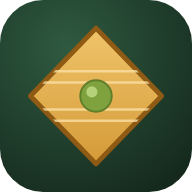
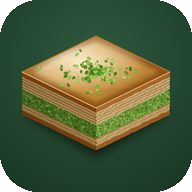
0.29.0: Şubede teslim bekleyen liste ve teslim alan, stoktakiler önce sipariş, Oda uygulamasında sevkiyat, yeni kare baklava simgesi
Claude-Session: https://claude.ai/code/session_01NAW6WPaR1nApTT9Sg4hdiU

diff --git a/index.html b/index.html
@@ -924,6 +924,23 @@
   .kip-uyari-kart b:first-of-type { font-size: 18px; }
   .kip-uyari-kart span { color: var(--soluk); line-height: 1.5; }
   .kip-uyari-kart .btn { width: 100%; min-height: 50px; }
+
+  .kip-bilgi { display: none; }
+  .mobil-kip .kip-bilgi { display: block; background: #EEF6EA; color: #1E5A22; border: 1px solid #BFD8B5; border-radius: 10px; padding: 8px 12px; margin-bottom: 10px; font-size: 14px; line-height: 1.4; }
+  .mobil-kip .oda-tablo td:nth-child(2) span[style] { display: none; }
+  .teslim-kart { border: 2px solid #C9B6F0; background: #F7F3FE; border-radius: 14px; padding: 12px; margin: 12px 0; display: flex; flex-direction: column; gap: 8px; }
+  .teslim-kart.tamam { border-color: #9BCB8F; background: #F0F8EC; }
+  .teslim-ust { display: flex; justify-content: space-between; align-items: center; gap: 10px; }
+  .teslim-ust > span { display: flex; flex-direction: column; min-width: 0; } .teslim-ust small { color: var(--soluk); }
+  .teslim-sayi { font-size: 24px; font-variant-numeric: tabular-nums; }
+  .teslim-liste { list-style: none; margin: 0; padding: 0; display: flex; flex-direction: column; gap: 4px; }
+  .teslim-liste li { display: grid; grid-template-columns: 22px minmax(0, 1fr) auto; gap: 8px; align-items: center; background: #fff; border: 1px solid var(--cizgi); border-radius: 8px; padding: 6px 10px; font-size: 14.5px; }
+  .teslim-liste li.tamam { color: #23602A; background: #F3FAF0; } .teslim-liste li.tamam span:first-child { font-weight: 800; }
+  .teslim-kabul { display: flex; gap: 8px; align-items: flex-end; flex-wrap: wrap; }
+  .teslim-kabul label { flex: 1 1 180px; } .teslim-kabul .btn { flex: 1 1 160px; min-height: 48px; font-size: 16px; }
+  .teslim-not { color: var(--soluk); font-size: 13.5px; }
+  .sip-bolum { font-size: 12px; font-weight: 800; letter-spacing: .5px; text-transform: uppercase; color: var(--soluk); margin: 10px 0 4px; }
+  .stok-var { color: #23602A; font-weight: 700; }
 </style>
 </head>
 <body>
@@ -1187,6 +1204,7 @@
     <!-- BAKLAVA ODASI -->
     <section data-sayfa="oda" class="gizli">
       <h2>Baklava Odası · Tepsi Etiketleri</h2>
+      <div class="kip-bilgi">Odaya gelen tepsilerin adedini yazıp <b>Kaydet</b>'e basın. Alınan ürün aynı anda <b>stoğa girer</b>; etiketleri bilgisayardan basılır.</div>
       <div class="kart">
         <div class="satir" style="justify-content:space-between;margin-bottom:12px">
           <label style="flex-direction:row;align-items:center;gap:8px">Üretim günü <input type="date" id="o-gun"></label>
@@ -1429,6 +1447,7 @@
           <button class="btn btn-kamera" type="button" id="sb2-kamera"><span data-ikon="kamera"></span>Kamera</button>
         </form>
         <div id="sb2-durum" class="okut-durum bekle">Gelen tepsileri “Teslim al” ile okutun.</div>
+        <div id="sb2-bekleyen"></div>
         <div class="buyuk-sayac"><b id="sb2-sayac">0</b><span>tepsi bugün teslim alındı</span></div>
         <ul class="okut-gecmis" id="sb2-gecmis" aria-label="Son okutmalar"></ul>
       </div>
@@ -1439,7 +1458,7 @@
         </div>
         <div id="sb2-siparisler"></div>
       </div>
-      <div class="kart">
+      <div class="kart gizli">
         <h3 style="margin:0 0 10px">Gelen sevkiyatlar · teslim kontrolü</h3>
         <div id="sb2-gelen"></div>
       </div>
@@ -3768,6 +3787,8 @@ function izinliEkranlar(p = profil) {
   if (l.includes('muhendis') && !l.includes('analiz')) l.push('analiz');
   // Oda stoğu, odayı ya da sevkiyatı gören herkese açık (siparişler buradan izlenir)
   if ((l.includes('oda') || l.includes('sevkiyat')) && !l.includes('odastok')) l.push('odastok');
+  // Odada tepsi kabul eden kişi sevkiyatı da yapar
+  if (MOBIL_KIP === 'oda' && p === profil && (l.includes('oda') || l.includes('sevkiyat'))) l.push('oda', 'sevkiyat');
   if (MOBIL_KIP && p === profil) l = l.filter(x => KIP_EKRANLAR[MOBIL_KIP].includes(x));
   return EKRANLAR.map(e => e.id).filter(e => l.includes(e)
     && (!SADECE_MUHENDIS.includes(e) || ['muhendis', 'yonetici'].includes(p.rol))
@@ -4651,6 +4672,7 @@ async function subeListesi() {
   const l = icerde || [];
   $('sb2-adet').textContent = `(${l.length})`;
   const gl = gelen || [];
+  sb2BekleyenCiz(gl);
   $('sb2-gelen').innerHTML = gl.length ? `<table><tr><th>Sevkiyat</th><th>Araç / şoför</th><th>Çıkış</th><th style="width:220px">Teslim alınan</th><th></th></tr>
     ${gl.map(x => { const tam = x.teslim_alinan >= x.tepsi_adet && x.tepsi_adet > 0; const yuzde = x.tepsi_adet ? Math.round(x.teslim_alinan * 100 / x.tepsi_adet) : 0; return `<tr>
       <td class="mono">${esc(x.kod)}</td><td><b>${esc(x.plaka)}</b><br><span style="color:var(--soluk)">${esc(x.sofor_ad)}</span></td>
@@ -4680,6 +4702,37 @@ document.querySelector('section[data-sayfa="sube"]').addEventListener('click', e
   if (t.dataset.gelenKapat) return teslimKapat(Number(t.dataset.gelenKapat), Number(t.dataset.eksik), t.dataset.kod);
   if (!t.closest('input, button, select, a, textarea')) $('sb2-okut').focus();
 });
+// Şubeye gelen (yoldaki) sevkiyatlar: ürün ürün liste, okutulanlar işaretlenir, eksik yoksa kabul eden kişi yazılıp kabul edilir
+async function sb2BekleyenCiz(gl) {
+  const kap = $('sb2-bekleyen');
+  if (!gl.length) { kap.innerHTML = ''; return; }
+  const { data } = await sb.from('v_sevkiyat_tepsileri').select('sevkiyat_id,mamul_id,mamul_ad,tepsi_durum,kod').in('sevkiyat_id', gl.map(x => x.id));
+  const tepsiler = data || [];
+  let ad = ''; try { ad = localStorage.getItem('teslimAlanAd') || ''; } catch (e) {}
+  kap.innerHTML = gl.map(x => {
+    const t = tepsiler.filter(y => y.sevkiyat_id === x.id);
+    const gelen = t.filter(y => y.tepsi_durum !== 'sevk').length, top = t.length, eksik = top - gelen;
+    const gr = {}; t.forEach(y => { const o = gr[y.mamul_ad] ||= { top: 0, gelen: 0 }; o.top++; if (y.tepsi_durum !== 'sevk') o.gelen++; });
+    const yolda = x.durum === 'yolda';
+    return `<div class="teslim-kart ${eksik ? '' : 'tamam'}">
+      <div class="teslim-ust"><span><b>Teslim bekleyen · ${esc(x.kod)}</b><small>${esc(x.plaka)}${x.sofor_ad ? ' · ' + esc(x.sofor_ad) : ''}${x.cikis_zamani ? ' · çıkış ' + saat(x.cikis_zamani) : ' · henüz yükleniyor'}</small></span>
+        <b class="teslim-sayi">${gelen}/${top}</b></div>
+      <div class="ilerleme ${eksik ? '' : 'tam'}"><div style="width:${top ? Math.round(gelen * 100 / top) : 0}%"></div></div>
+      <ul class="teslim-liste">${Object.entries(gr).sort((a, b) => (a[1].gelen >= a[1].top) - (b[1].gelen >= b[1].top) || a[0].localeCompare(b[0], 'tr')).map(([m, o]) =>
+        `<li class="${o.gelen >= o.top ? 'tamam' : ''}"><span>${o.gelen >= o.top ? '✓' : '○'}</span><span>${esc(m)}</span><b>${o.gelen}/${o.top}</b></li>`).join('')}</ul>
+      ${!yolda ? '<div class="teslim-not">Araç sistemde henüz yola çıkmadı; tepsileri okutabilirsiniz, kabul araç çıkınca yapılır.</div>' : `
+      <div class="teslim-kabul">
+        <label>Teslim alan * <input data-teslim-ad="${x.id}" value="${esc(ad)}" placeholder="Adınız soyadınız" autocomplete="name"></label>
+        <button type="button" class="btn ${eksik ? 'ikincil' : ''}" data-teslim-kabul="${x.id}" data-eksik="${eksik}" data-kod="${esc(x.kod)}">${eksik ? `${eksik} eksikle kabul et` : '✓ Kabul et'}</button>
+      </div>`}</div>`; }).join('');
+}
+document.addEventListener('click', ev => {
+  const b = ev.target.closest('[data-teslim-kabul]'); if (!b) return;
+  const id = Number(b.dataset.teslimKabul), i = document.querySelector(`[data-teslim-ad="${id}"]`), ad = i.value.trim();
+  if (!ad) { bildir('Teslim alan kişinin adını yazın.', true); return i.focus(); }
+  try { localStorage.setItem('teslimAlanAd', ad); } catch (e) {}
+  teslimKapat(id, Number(b.dataset.eksik), b.dataset.kod, ad);
+});
 async function gelenEksikler(id) {
   const { data } = await sb.from('v_sevkiyat_tepsileri').select('*').eq('sevkiyat_id', id).eq('tepsi_durum', 'sevk').order('kod');
   const l = data || [];
@@ -4687,10 +4740,11 @@ async function gelenEksikler(id) {
     ${l.map(x => `<tr><td class="mono">${esc(x.kod)}</td><td>${esc(x.mamul_ad)}</td><td>${tarih(x.uretim_tarihi)}</td><td>${tarihSaat(x.yukleme_zamani)}</td></tr>`).join('')}</table>`
     : '<div class="bos">Eksik yok.</div>');
 }
-async function teslimKapat(id, eksik, kod) {
+async function teslimKapat(id, eksik, kod, ad = '') {
+  const kapat = not => ad ? sb.rpc('sevkiyat_teslim_kapat2', { p_sevkiyat_id: id, p_not: not, p_teslim_alan_adi: ad }) : sb.rpc('sevkiyat_teslim_kapat', { p_sevkiyat_id: id, p_not: not });
   if (!eksik) {
-    if (!await onayla(`${kod}: bütün tepsiler teslim alındı. Teslim kapatılsın mı?`)) return;
-    const { data, error } = await sb.rpc('sevkiyat_teslim_kapat', { p_sevkiyat_id: id, p_not: null });
+    if (!await onayla(`${kod}: bütün tepsiler geldi. ${ad ? ad + ' adına ' : ''}kabul edilsin mi?`, 'Kabul et')) return;
+    const { data, error } = await kapat(null);
     if (error) return bildir(hataMesaji(error), true);
     bildir(`${kod} teslimi tamamlandı.`); return subeListesi();
   }
@@ -4704,7 +4758,7 @@ async function teslimKapat(id, eksik, kod) {
   $('tk-liste').onclick = () => gelenEksikler(id);
   $('tk-kaydet').onclick = async () => {
     const not = $('tk-not').value.trim(); if (!not) return bildir('Ne olduğunu yazın.', true);
-    const { error } = await sb.rpc('sevkiyat_teslim_kapat', { p_sevkiyat_id: id, p_not: not });
+    const { error } = await kapat(not);
     if (error) return bildir(hataMesaji(error), true);
     modalKapat(); bildir(`${kod} eksik teslim olarak kaydedildi.`, true); subeListesi();
   };
@@ -4919,16 +4973,22 @@ async function siparisFormu(duzenleId = null) {
     if (s) { teslim = s.teslim_tarihi; notu = s.notu || ''; } (k || []).forEach(x => { mevcut[x.mamul_id] = x.adet; });
   }
   const subeAd = subeler.find(x => x.id === subeId)?.ad || '';
+  // Odadaki stok: önce stokta olanlar (adediyle), sonra stokta olmayanlar
+  const { data: os } = await sb.from('v_oda_stok').select('mamul_id,adet');
+  const stok = {}; (os || []).forEach(x => { stok[x.mamul_id] = (stok[x.mamul_id] || 0) + Number(x.adet || 0); });
+  const stokta = sipMamuller.filter(m => stok[m.id] > 0).sort((a, b) => stok[b.id] - stok[a.id]);
+  const stoksuz = sipMamuller.filter(m => !(stok[m.id] > 0));
+  const sipSatir = m => `<div class="sip-form-satir ${mevcut[m.id] ? 'dolu' : ''}" data-ad="${esc((m.ad + ' ' + (m.dara_kod || '')).toLocaleLowerCase('tr'))}">
+      <span><b>${esc(m.ad)}</b><small>${stok[m.id] > 0 ? `<span class="stok-var">Odada ${stok[m.id]} tepsi</span>` : 'Odada yok · sipariş verilebilir'}</small></span>
+      <span class="adim kucuk" style="flex:none"><button type="button" data-adim="-1" aria-label="Bir azalt">−</button><input type="number" min="0" max="999" inputmode="numeric" value="${mevcut[m.id] || ''}" placeholder="0" data-sp-mamul="${m.id}" aria-label="${esc(m.ad)} adet"><button type="button" data-adim="1" aria-label="Bir artır">+</button></span>
+    </div>`;
   modalAc(`${duzenleId ? 'Siparişi değiştir' : 'Sipariş ver'} · ${subeAd}`, `
     <div class="satir" style="gap:10px;flex-wrap:wrap">
       <label style="flex:1;min-width:150px">Teslim günü <input type="date" id="sp-teslim" value="${teslim}" min="${bugun()}"></label>
       <label style="flex:2;min-width:180px">Ara <input type="search" id="sp-ara" placeholder="Ürün adı…"></label>
     </div>
     ${duzenleId ? '' : '<button type="button" class="kk-tam-dugme koyu" id="sp-son" style="margin-top:8px">Son siparişimi kopyala</button>'}
-    <div class="sip-form-liste" id="sp-liste">${sipMamuller.map(m => `<div class="sip-form-satir ${mevcut[m.id] ? 'dolu' : ''}" data-ad="${esc((m.ad + ' ' + (m.dara_kod || '')).toLocaleLowerCase('tr'))}">
-      <span><b>${esc(m.ad)}</b>${m.grup || m.dara_kod ? `<small>${esc([m.grup, m.dara_kod].filter(Boolean).join(' · '))}</small>` : ''}</span>
-      <span class="adim kucuk" style="flex:none"><button type="button" data-adim="-1" aria-label="Bir azalt">−</button><input type="number" min="0" max="999" inputmode="numeric" value="${mevcut[m.id] || ''}" placeholder="0" data-sp-mamul="${m.id}" aria-label="${esc(m.ad)} adet"><button type="button" data-adim="1" aria-label="Bir artır">+</button></span>
-    </div>`).join('')}</div>
+    <div class="sip-form-liste" id="sp-liste">${stokta.length ? `<div class="sip-bolum">Odada stokta olanlar</div>${stokta.map(sipSatir).join('')}` : ''}${stoksuz.length ? `<div class="sip-bolum">Stokta olmayanlar</div>${stoksuz.map(sipSatir).join('')}` : ''}</div>
     <label>Not (isteğe bağlı) <input id="sp-not" value="${esc(notu)}" placeholder="Örn. öğlene kadar lazım"></label>
     <div class="satir" style="justify-content:space-between;margin-top:12px;align-items:center">
       <span id="sp-toplam" style="font-weight:700;color:var(--soluk)">0 tepsi</span>
@@ -5860,6 +5920,7 @@ async function basla(kullaniciId, email) {
   else sayfaAc(izin[0]);
 }
 if (MOBIL_KIP) {
+  if (MOBIL_KIP === 'oda') { document.querySelector('section[data-sayfa="oda"] > h2').textContent = 'Tepsi kabul'; const e = EKRANLAR.find(x => x.id === 'oda'); if (e) e.ad = 'Tepsi kabul'; document.querySelectorAll('[data-grup-sekme="oda"] span:last-child').forEach(x => x.textContent = 'Tepsi kabul'); }
   $('kip-ad').textContent = KIP_AD[MOBIL_KIP];
   $('kip-giris').textContent = `${KIP_AD[MOBIL_KIP]} uygulaması`;
   document.title = `Koçak ${KIP_AD[MOBIL_KIP]}`;

diff --git a/sw.js b/sw.js
@@ -1,6 +1,6 @@
 // İzlenebilirlik - basit servis çalışanı (telefona yüklenebilir uygulama için).
 // Uygulama dosyaları önbelleğe alınır; veriler her zaman canlı sunucudan gelir.
-const SURUM = 'izl-v0.28.1';
+const SURUM = 'izl-v0.29.0';
 const DOSYALAR = ['./', './index.html', './lib/supabase.js', './lib/qrcode.js', './lib/jsQR.js', './manifest.json', './simge-192.png', './simge-512.png', './img/kocak-logo.png', './img/kocak-baklava.jpg', './img/kocak-serit.jpg'];
 self.addEventListener('install', e => { e.waitUntil(caches.open(SURUM).then(c => c.addAll(DOSYALAR)).then(() => self.skipWaiting())); });
 self.addEventListener('activate', e => {
